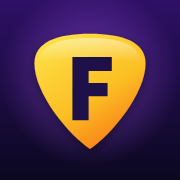
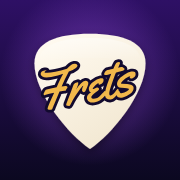
Icono: la púa dice Frets en letra cursiva estilo Fender (Yellowtail, convertida a trazos)
Claude-Session: https://claude.ai/code/session_01H1WPZ5ogxsxRopiUnv5NRt

Changed region(s): [[0.1667, 0.1667, 0.8333, 0.8333]]

diff --git a/sw.js b/sw.js
@@ -1,5 +1,5 @@
 // Service worker: guarda la app para jugar sin conexión.
-const CACHE = 'frets-v34';
+const CACHE = 'frets-v35';
 const ASSETS = [
   './', 'index.html', 'style.css', 'manifest.webmanifest',
   'favicon.ico', 'icons/icon.svg', 'icons/icon-192.png', 'icons/icon-512.png', 'icons/icon-maskable-512.png', 'icons/apple-touch-icon.png',
